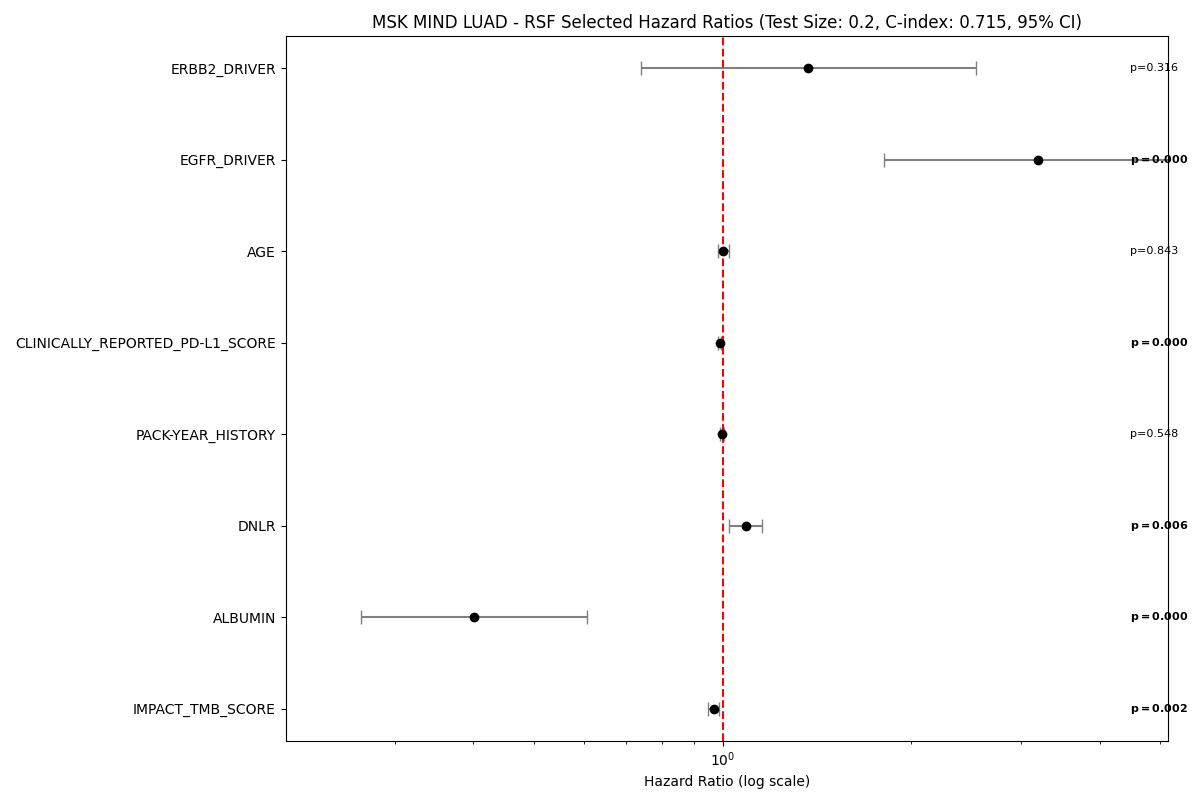
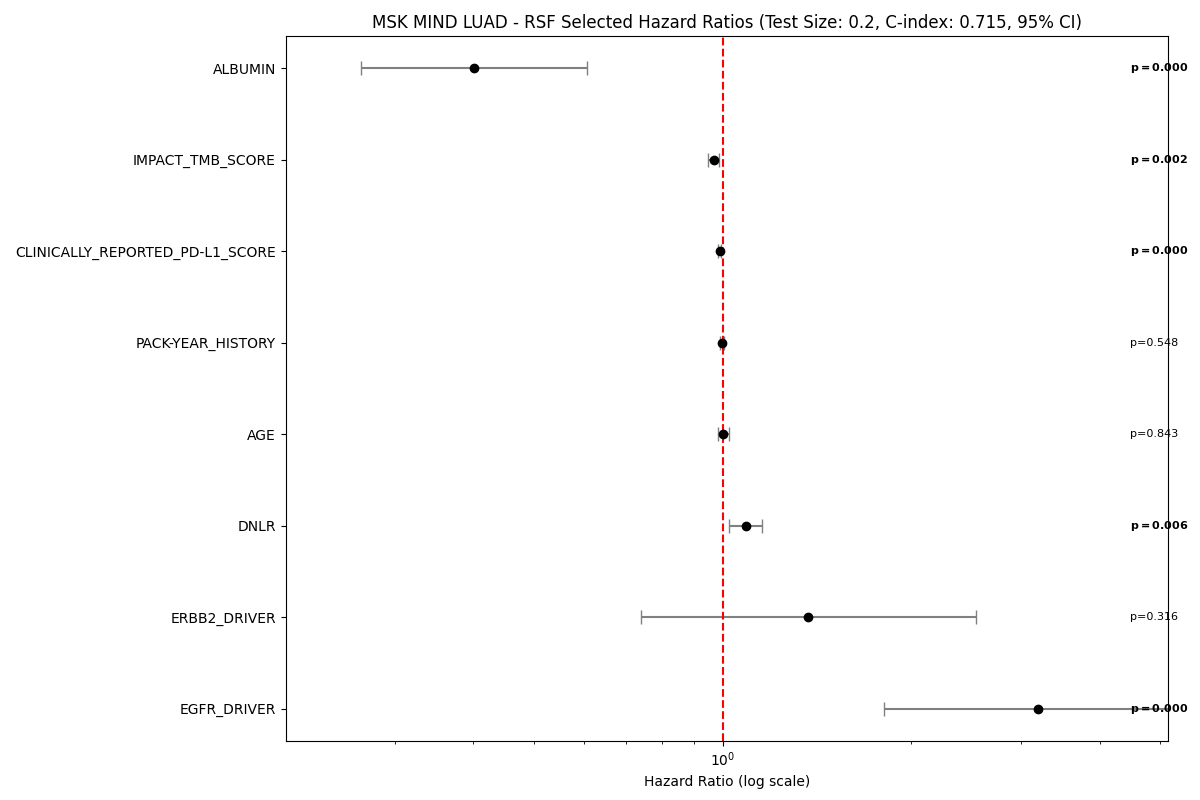
add latex, sorted HR

diff --git a/coxph-0.2split-gbm.py b/coxph-0.2split-gbm.py
@@ -4,6 +4,40 @@ from matplotlib import pyplot as plt
 import numpy as np
 from sklearn.model_selection import train_test_split
 
+def dataframe_to_latex(df, caption="Table Caption", label="table:label"):
+    """
+    Convert a pandas DataFrame to a LaTeX tabular environment and print it.
+    
+    Parameters:
+    - df: pandas DataFrame
+    - caption: The caption of the table (optional)
+    - label: The label for referencing the table in LaTeX (optional)
+    """
+    # Start the LaTeX table environment
+    latex_str = "\\begin{table}[htbp]\n"
+    latex_str += "\\centering\n"
+    latex_str += f"\\caption{{{caption}}}\n"
+    latex_str += f"\\label{{{label}}}\n"
+    # afterwards do l c c for left on covariates
+    latex_str += "\\begin{tabular}{" + " | ".join(['c' for _ in df.columns]) + "}\n"
+    latex_str += "\\hline\n"
+
+    # Add column headers
+    latex_str += " & ".join(df.columns) + " \\\\\n"
+    latex_str += "\\hline\n"
+
+    # Add table rows
+    for _, row in df.iterrows():
+        latex_str += " & ".join(map(str, row.values)) + " \\\\\n"
+        # latex_str += "\\hline\n"
+
+    # End the LaTeX table environment
+    latex_str += "\\end{tabular}\n"
+    latex_str += "\\end{table}\n"
+
+    # Print the LaTeX table
+    print(latex_str)
+
 def run_model(df, name):
     # Train-test split
     # Split the data into training and testing sets
@@ -43,6 +77,9 @@ def run_model(df, name):
 
     summary_df['significance'] = summary_df['p'].apply(significance_stars)
 
+    # Sort summary_df by the coefficient values (ascending order)
+    summary_df = summary_df.sort_values(by='coef', ascending=False)
+    
     print(summary_df)
 
     concordance = cph.concordance_index_
@@ -66,6 +103,38 @@ def run_model(df, name):
     confidence_intervals = np.exp(cph.confidence_intervals_)  # Exponentiate confidence intervals
     p_values = cph.summary['p']  # Extract p-values from the summary
 
+    # Print Latex table, round to 2 decimal places
+    summary_df = summary_df.round(2)
+    
+    print(summary_df.info())
+    
+    # Keep only exp(coef) - hazard ratio, exp(coef) lower 95%, exp(coef) upper 95%, p-value
+    latex_df = summary_df[['exp(coef)', 'exp(coef) lower 95%', 'exp(coef) upper 95%', 'p']]
+    
+    # Include covariate names in the table
+    latex_df['Covariate'] = latex_df.index
+    
+    # Remove underscores in the covariate names
+    latex_df['Covariate'] = latex_df['Covariate'].str.replace('_', ' ')
+    
+    # Combine lower and upper confidence interval bounds into hazard ratios 
+    latex_df["Hazard Ratio"] = latex_df["exp(coef)"].astype(str) + " (" + latex_df["exp(coef) lower 95%"].astype(str) + "-" + latex_df["exp(coef) upper 95%"].astype(str) + ")"
+    
+    # Drop the columns that are no longer needed
+    latex_df = latex_df.drop(columns=['exp(coef)', 'exp(coef) lower 95%', 'exp(coef) upper 95%'])
+    
+    # Arrange the columns in the correct order
+    latex_df = latex_df[['Covariate', 'Hazard Ratio', 'p']]
+    
+    dataframe_to_latex(latex_df, caption=f'{name} Model Summary', label='table:model-summary')
+
+    # Sort the parameters by hazard ratio in descending order
+    sorted_indices = np.argsort(hazard_ratios)[::-1]
+    sorted_hazard_ratios = hazard_ratios[sorted_indices]
+    sorted_confidence_intervals = confidence_intervals.iloc[sorted_indices]
+    sorted_p_values = p_values.iloc[sorted_indices]
+    sorted_params = cph.params_.index[sorted_indices]
+
     # Plotting the forest plot
     plt.figure(figsize=(12, 8))
 
@@ -73,25 +142,25 @@ def run_model(df, name):
     plt.title(f'{name} Hazard Ratios (Test Size: {test_size}, C-index: {c_index:.3f}, 95% CI)')
 
     # Generate a forest plot for hazard ratios with 95% confidence intervals
-    plt.errorbar(hazard_ratios, range(len(hazard_ratios)), 
-                xerr=[hazard_ratios - confidence_intervals.iloc[:, 0], confidence_intervals.iloc[:, 1] - hazard_ratios],
+    plt.errorbar(sorted_hazard_ratios, range(len(sorted_hazard_ratios)), 
+                xerr=[sorted_hazard_ratios - sorted_confidence_intervals.iloc[:, 0], sorted_confidence_intervals.iloc[:, 1] - sorted_hazard_ratios],
                 fmt='o', color='black', ecolor='grey', capsize=5)
 
     # Add labels for the covariates
-    plt.yticks(range(len(hazard_ratios)), cph.params_.index)
+    plt.yticks(range(len(sorted_hazard_ratios)), sorted_params)
     plt.axvline(x=1, linestyle='--', color='red')  # Reference line at HR=1
     plt.xlabel('Hazard Ratio (log scale)')
     plt.xscale('log')  # Logarithmic scale for the hazard ratios
 
-    x_pos = max(hazard_ratios) * 1.4  # Position the p-values far to the right
-    for i, p in enumerate(p_values):
+    x_pos = max(sorted_hazard_ratios) * 1.4  # Position the p-values far to the right
+    for i, (hr, p) in enumerate(zip(sorted_hazard_ratios, sorted_p_values)):
         if p < 0.05:
             plt.text(x_pos, i, f'$\\mathbf{{p={p:.3f}}}$', va='center', ha='left', fontsize=8)
         else:
             plt.text(x_pos, i, f'p={p:.3f}', va='center', ha='left', fontsize=8)
 
     # Adjust x-axis limits to ensure p-values are visible
-    plt.xlim(left=min(hazard_ratios) / 2, right=x_pos * 1.15)
+    plt.xlim(left=min(sorted_hazard_ratios) / 2, right=x_pos * 1.15)
 
     # Display the plot
     plt.tight_layout()
